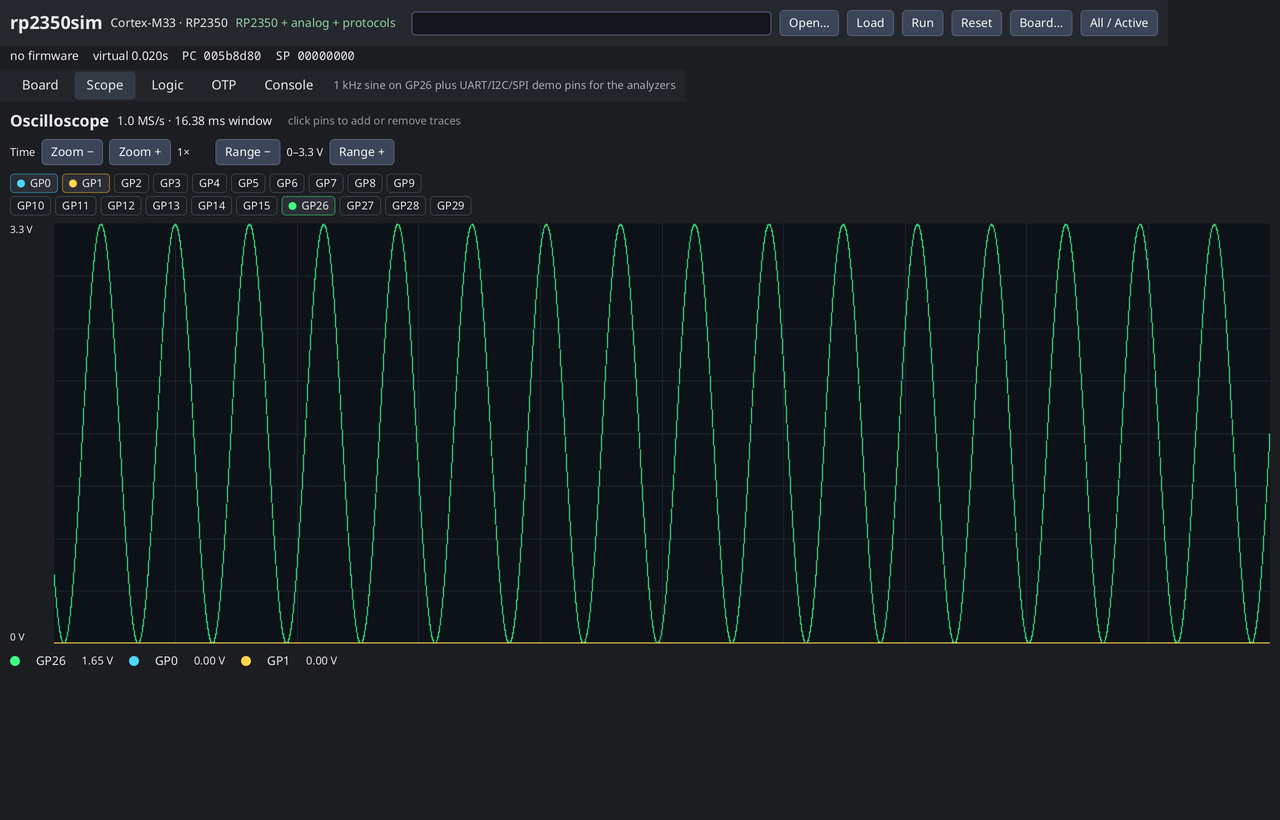
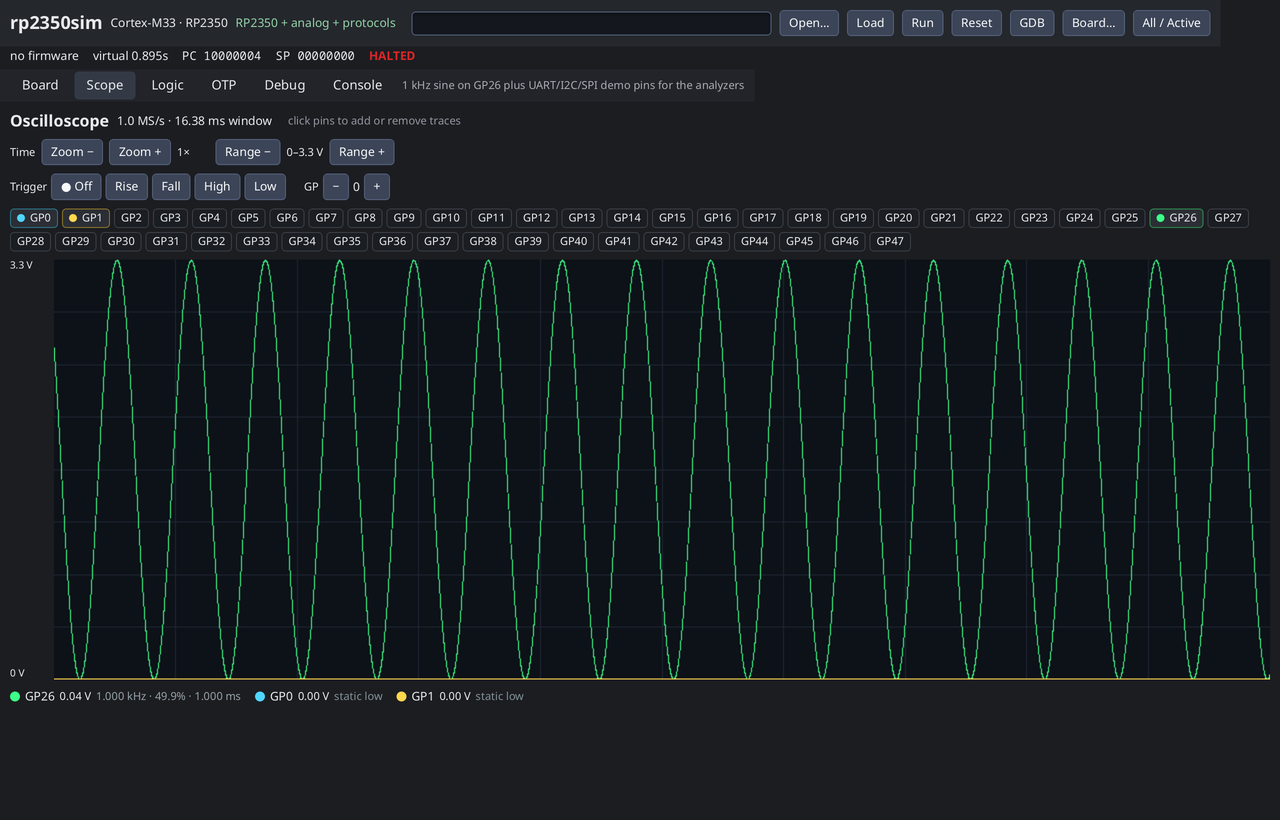
docs: document scope triggers and VCD export

diff --git a/docs/ui.md b/docs/ui.md
@@ -218,11 +218,21 @@ The last WS2812B frame as large swatches with its RGB values.
 ### Scope
 
 Up to eight channels, each with its own colour, 0–3.3 V, 1 MHz sampling and a
-~16 ms window. Click header pins (GP0–GP15, GP26–GP29) to add/remove traces;
-the legend shows the latest voltage. **Time Zoom −/+** changes the window from
-1× to 64×; **Range −/+** selects 0.5, 1, 1.65, 2, 3.3 or 5 V full scale;
-**Reset** restores 1×/3.3 V. `analog:` board entries generate waveforms (the
-`pico2-analog` board puts a 1 kHz sine on GP26, which the ADC also reads).
+~16 ms window. Click header pins to add/remove traces; all GPIOs are offered
+(GP0–GP47; RP2350A packages only bond 0–29). The legend shows the latest
+voltage and a live measurement per channel: frequency, duty cycle and period,
+using the same first-to-last-rising-edge method as `tools/pincheck` (with
+"static high/low" when there are no edges).
+
+The **Trigger** row selects Off/Rise/Fall/High/Low on a GPIO and **Rearm**
+watches for the next event. On a match the scope keeps a quarter-window of
+post-trigger samples, freezes the trace and marks the trigger instant with an
+orange dashed line; measurements then reflect the frozen window.
+
+**Time Zoom −/+** changes the window from 1× to 64×; **Range −/+** selects 0.5,
+1, 1.65, 2, 3.3 or 5 V full scale; **Reset** restores 1×/3.3 V. `analog:` board
+entries generate waveforms (the `pico2-analog` board puts a 1 kHz sine on GP26,
+which the ADC also reads).
 
 The scope and logic tabs sample pins every emulated cycle. That disables the
 idle fast-forward the headless runner uses, so sleep-heavy firmware costs the
@@ -241,7 +251,10 @@ synthesised waveforms; USB CDC transfers are listed with direction.
 on the next event; **Pause: on** also stops the machine. **Rearm** waits for
 the next event after a frozen capture. **Save trace** writes
 `logic-analyze-trace-<date>-<board>.txt` in the current directory with the raw
-pin samples and decoded UART/I2C/SPI/USB sections.
+pin samples, the decoded UART/I2C/SPI/USB sections and complete event logs for
+every bus and direction. **Save VCD** writes
+`logic-trace-<date>-<board>.vcd`, an IEEE 1364 value change dump of the digital
+pins that opens directly in GTKWave or PulseView.
 
 ![Logic tab](images/logic.png)
 

diff --git a/docs/peripherals.md b/docs/peripherals.md
@@ -384,12 +384,15 @@ rp2350sim -fw build/protocols.elf -seconds 0.5 \
 `-logic-rate` sets the sample rate (2 MHz default) and `-logic-depth` the ring
 depth (16384). Without `-logic-out` the file is
 `logic-analyze-trace-<date>-<board>.txt` in the current directory; set the
-board name with `-logic-board`. Capturing pins installs a per-cycle hook and
-disables idle fast-forward.
+board name with `-logic-board`. The text includes complete UART/SPI/I2C tap
+logs for every bus. `-vcd PATH` writes the digital pin window as an IEEE 1364
+value change dump for GTKWave or PulseView. Capturing pins installs a
+per-cycle hook and disables idle fast-forward.
 
 **UI.** The **Logic** tab shows synthesised waveforms, decoded UART/I2C/SPI/USB
-sections and a **Save trace** button that writes the same text format (with a
-USB CDC section as well).
+sections and **Save trace**/**Save VCD** buttons. Save trace writes the same
+text format (with a USB CDC section and full event logs); Save VCD writes
+`logic-trace-<date>-<board>.vcd`.
 
 ![Logic tab](images/logic.png)
 
@@ -470,11 +473,14 @@ There is no headless oscilloscope. Use `-trace-pins`/`-logic-pins` for edges
 and `tools/pincheck` for frequency/duty measurements.
 
 The UI **Scope** has up to eight channels, each with its own colour, 1 MHz
-sampling and a ~16 ms window. Click header pins to add or remove traces; the
-legend shows the latest voltage. **Time Zoom** changes the window from 1× to
-64×, **Range** selects 0.5, 1, 1.65, 2, 3.3 or 5 V full scale, and **Reset**
-restores 1×/3.3 V. `analog:` board entries drive generated sine, square or
-triangle sources.
+sampling and a ~16 ms window. Any GPIO 0–47 can be added (RP2350A packages
+only bond 0–29). The legend shows the latest voltage and live
+frequency/duty/period readouts via the same edge measurement as `pincheck`.
+**Trigger** supports Off/Rise/Fall/High/Low on a chosen GPIO; a match freezes
+the window with a quarter of post-trigger data and marks the trigger instant.
+**Time Zoom** changes the window from 1× to 64×, **Range** selects 0.5, 1, 1.65,
+2, 3.3 or 5 V full scale, and **Reset** restores 1×/3.3 V. `analog:` board
+entries drive generated sine, square or triangle sources.
 
 ![Scope with the 1 kHz sine on GP26](images/scope.png)
 

diff --git a/docs/cli.md b/docs/cli.md
@@ -446,6 +446,7 @@ rp2350sim -fw build/busmaster.elf -seconds 5 \
 | `-logic-rate HZ` | sample rate (default 2 MHz) |
 | `-logic-depth N` | ring depth in samples (default 16384) |
 | `-logic-board NAME` | board label for the file name and metadata (default: the firmware file name) |
+| `-vcd PATH` | write the captured pins as an IEEE 1364 VCD (GTKWave/PulseView) |
 | `-i2c-tcp bus:addr[,addr][@listen|=connect]` | expose I2C targets over TCP (repeatable) |
 | `-spi-tcp bus:cs[@listen|=connect]` | expose an SPI device over TCP (repeatable) |
 | `-bus-timeout D` | I2C/SPI bridge request deadline (default 1s) |
@@ -482,6 +483,16 @@ for the controller taps and pin protocols. A pin trace is a rolling window of
 installs a per-cycle hook, which disables the idle fast-forward while the run
 is captured. The UI's **Save trace** writes the same format plus a USB CDC
 section.
+
+`-vcd PATH` writes the same pin window as an IEEE 1364 value change dump
+(timescale 1 ns, one wire per GPIO), ready for GTKWave or PulseView. It needs
+at least one captured pin, from `-logic-pins` or the pins named by
+`-logic-uart`/`-logic-i2c`/`-logic-spi`:
+
+```sh
+rp2350sim -fw build/protocols.elf -seconds 0.2 \
+  -logic-uart 0,1,115200 -logic-i2c 4,5 -vcd trace.vcd
+```
 
 ### Audio capture
 
